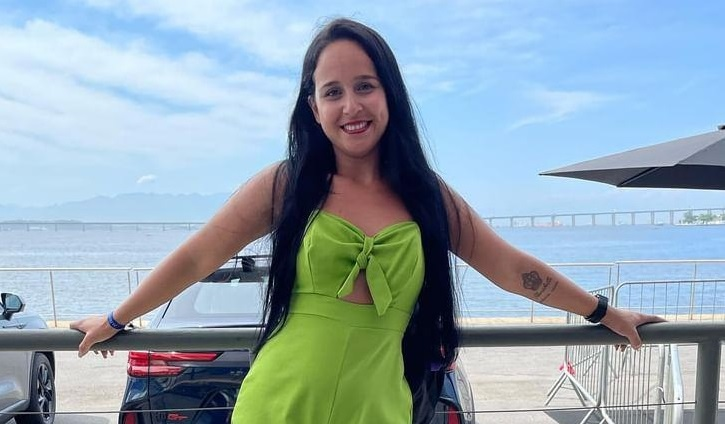
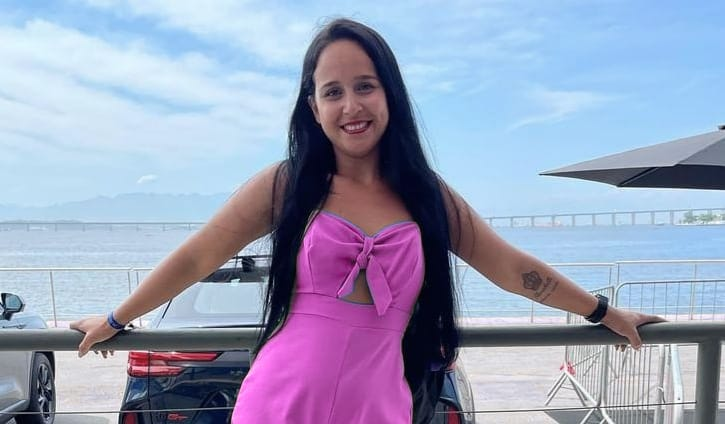
ajustes quase finais

diff --git a/index.html b/index.html
@@ -3,14 +3,14 @@
   <head>
     <link rel="preconnect" href="https://fonts.googleapis.com" />
     <link rel="preconnect" href="https://fonts.gstatic.com" crossorigin />
-    <meta name="theme-color" content="#00856F"/>
+    <meta name="theme-color" content="#ff007f"/>
     <meta charset="UTF-8" />
     <meta name="viewport" content="width=device-width, initial-scale=1.0" />
     <meta http-equiv="X-UA-Compatible" content="IE=edge" />
     <meta name="description" content="Portifólio de NathaliaAguiar, desenvolvedora web Front-end" />
     <meta name="author" content="Nathalia Aguiar" />
     <meta property="og:description" content="Portifólio de NathaliaAguiar, desenvolvedora web Front-end" />
-    <meta property="og:image" content="./assets/images/nathalia.jpeg" />
+    <meta property="og:image" content="./assets/images/nathalia1.jpeg" />
     <meta property="og:type" content="website" />
     <meta name="keywords" content="developer, programação, dev, desenvolvedor, programador, html, css, javascript, nodejs, reactjs, react, github, frontend, front-end" />
     <meta name="robots" content="index" />
@@ -22,19 +22,22 @@
 
     <link
       rel="shortcut icon"
-      href="./assets/icons/favicon.png"
+      href="./assets/icons/favicon-32x32.png"
       type="image/x-icon"
     />
     <link rel="stylesheet" href="assets/css/style.css" />
     <script src="https://unpkg.com/scrollreveal"></script>
     <script type="module" src="./assets/js/main.js" defer></script>
 
-    <title>Nathalia Aguiar // Portifólio</title>
+    <title>Nathalia Aguiar || Portifólio</title>
   </head>
   <body>
     <nav id="navigation">
       <div class="wrapper">
-        <a class="logo close" href="#home">ᴺᵃᵗʰᵃˡⁱᵃᴬᵍᵘⁱᵃʳ</a>
+        <a class="logo close" href="#home">
+          <img src="./assets/icons/favicon-32x32.png" alt="Ícone" class="logo-icon" />
+          Nathalia Aguiar
+        </a>
 
         <div class="menu">
           <ul>
@@ -244,7 +247,7 @@
         <div class="col-b">
           <img
             src="./assets/images/nathalia.jpeg"
-            alt="Imagem de nathalia vestindo roupa verde e sorrindo com o mar no fundo"
+            alt="Imagem de nathalia vestindo roupa rosa e sorrindo com o mar no fundo"
           />
         </div>
       </div>
@@ -485,7 +488,7 @@
         </div>
 
         <div class="col-b">
-          <img src="./assets/images/celular.png" alt="Ícone de celular." style="width: 300px; height: 1205px;"/>
+          <img src="./assets/images/celular.png" alt="Ícone de celular." style="width: 200px; height: 1505px;"/>
         </div>
       </div>
     </section>
@@ -498,7 +501,7 @@
         fill="none"
         xmlns="http://www.w3.org/2000/svg"
       >
-        <circle cx="20" cy="20" r="20" fill="#00856F" />
+        <circle cx="20" cy="20" r="20" fill="#ff007f" />
         <path
           d="M20 27V13"
           stroke="white"

diff --git a/assets/css/style.css b/assets/css/style.css
@@ -4,7 +4,6 @@
   margin: 0;
   padding: 0;
   box-sizing: border-box;
-
   font-family: "DM Sans", sans-serif;
 }
 
@@ -70,7 +69,6 @@ body.light-mode {
 
 .wrapper {
   width: min(50rem, 100%);
-
   margin-inline: auto;
   padding-inline: 2.4rem;
 }
@@ -295,9 +293,7 @@ body nav#navigation .social-links li:nth-child(4) svg:hover path:nth-child(2) {
 nav {
   width: 100vw;
   height: var(--nav-height);
-
   display: flex;
-
   position: fixed;
   top: 0;
   z-index: 100;
@@ -344,7 +340,7 @@ body.light-mode.menu-expanded nav#navigation.scroll a.logo {
 }
 
 body.menu-expanded nav#navigation a.logo {
-  opacity: 1;
+  opacity: 0;
 }
 
 body.light-mode nav#navigation a.logo {
@@ -359,7 +355,7 @@ body.light-mode nav#navigation.scroll a.logo {
 /* == estilo para fonte menu/close menu== */
 
 nav#navigation .menu ul li a {
-  color: #fff;
+  color: #ff007f;
   font-size: larger;
   font-family: monospace;
   
@@ -461,13 +457,11 @@ body.menu-expanded button path {
 
 #home .wrapper {
   height: 53rem;
-
   display: flex;
   flex-direction: column;
   align-items: center;
   justify-content: center;
   gap: 6rem;
-
   position: relative;
 }
 
@@ -547,19 +541,41 @@ body.menu-expanded button path {
 #home .wrapper::before {
   content: "";
   display: block;
-
   width: 27rem;
   height: 27rem;
-
-  background-color: var(--primary-color);
-  border-radius: 100%;
-
+  background: linear-gradient(135deg, #ff007f 0%, #ff007f 100%);
   position: absolute;
   bottom: -3.1rem;
   z-index: -1;
-
-  animation: appear 1s 500ms backwards;
+  animation: appear 1s 500ms backwards, rotateShape 30s infinite ease-in-out;
+  border-radius: 50% 40% 60% 40% / 30% 50% 30% 50%;
+  box-shadow: 0 10px 30px rgba(0, 0, 0, 0.3);
+  border: 2px solid rgba(255, 255, 255, 0.2);
 }
+
+@keyframes appear {
+  from {
+    opacity: 0;
+    transform: scale(0.5);
+  }
+  to {
+    opacity: 1;
+    transform: scale(1);
+  }
+}
+
+@keyframes rotateShape {
+  0% {
+    transform: rotate(0deg);
+  }
+  50% {
+    transform: rotate(180deg);
+  }
+  100% {
+    transform: rotate(360deg);
+  }
+}
+
 
 #home img {
   width: 30rem;
@@ -626,7 +642,7 @@ body.light-mode #home img#notebook-2-white {
   }
 }
 
-/*===== ABOUT =================================================*/
+/*===== Sobre mim=================================================*/
 
 #about {
   text-align: left;
@@ -650,13 +666,15 @@ body.light-mode #home img#notebook-2-white {
   text-align: left;
 }
 
-#about img {
-  width: 38rem;
-
-  border-radius: 2rem;
-  box-shadow: 0 0 2rem black;
-
+ 
+ #about img {
+  width: 50rem;
+  border-radius: 30% 70% 70% 30% / 30% 49% 51% 70%  ;
+  box-shadow: 0 0 2rem #ff007f;
   transition: 600ms;
+  animation: irregularBorder 8s infinite;
+  
+  
 }
 
 /*===== PROJECTS ===============================================*/
